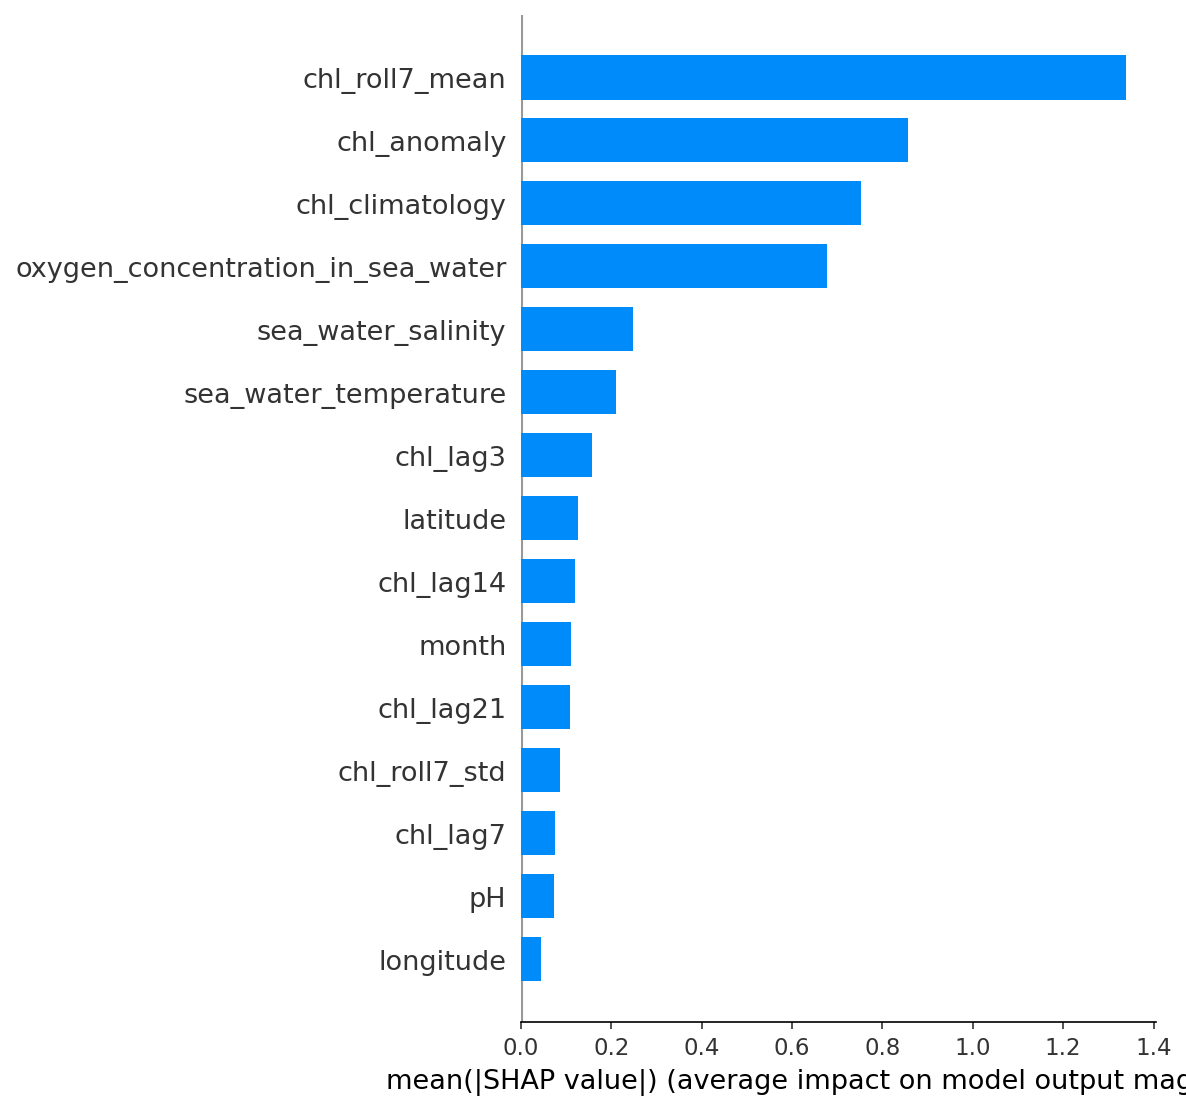
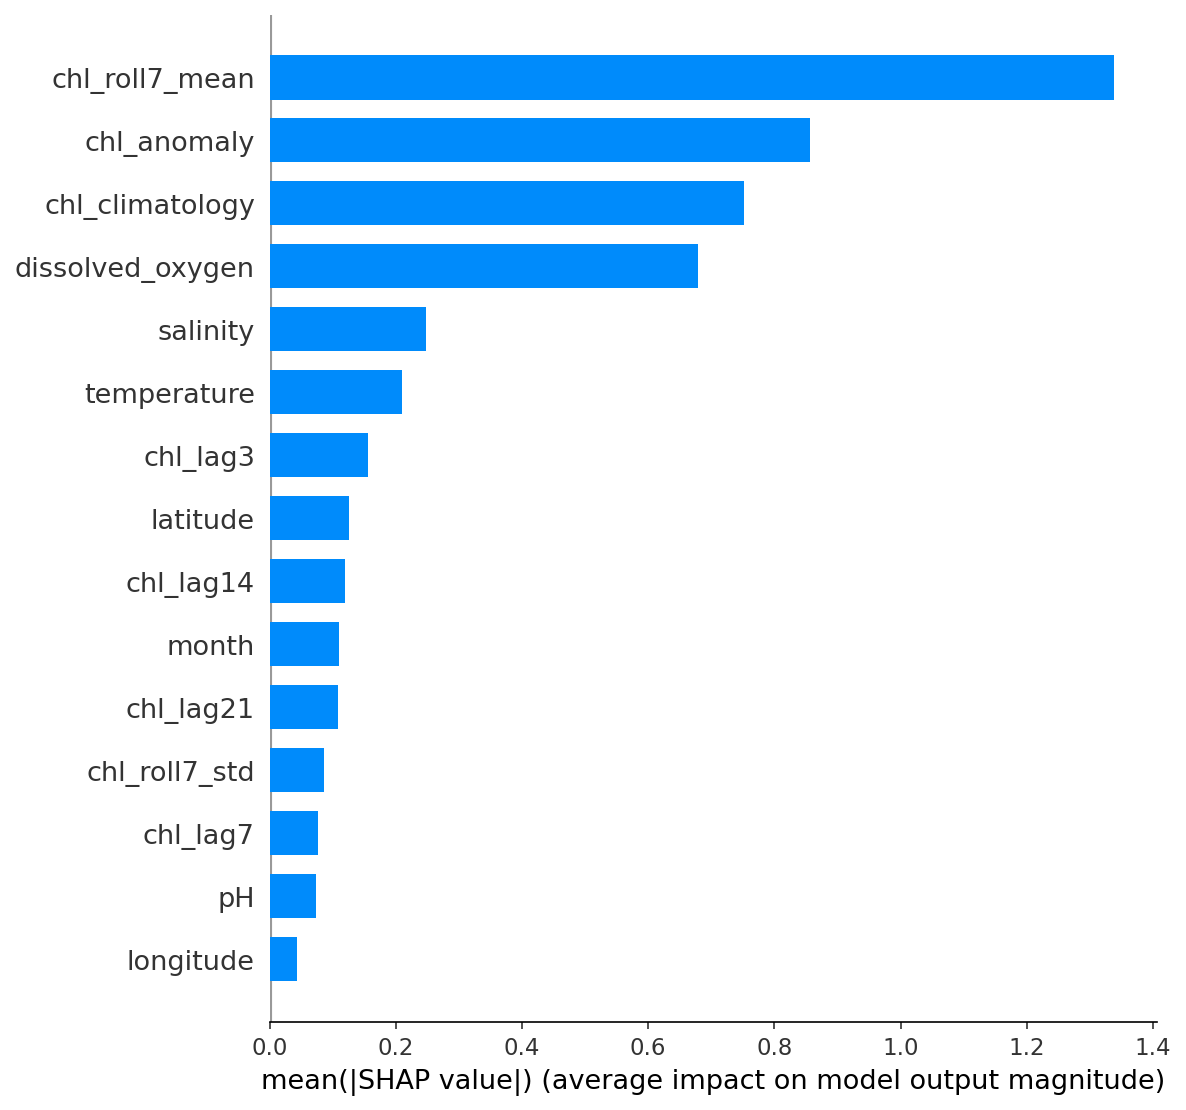
Refactor SHAP analysis plots to use renamed feature display names and adjust figure sizes

diff --git a/src/models/shap_analysis.py b/src/models/shap_analysis.py
@@ -49,17 +49,24 @@ sample = X_val.sample(5000, random_state=42)
 explainer = shap.TreeExplainer(xgb)
 shap_values = explainer.shap_values(sample)
 
+display_names = {
+    'oxygen_concentration_in_sea_water': 'dissolved_oxygen',
+    'sea_water_temperature': 'temperature',
+    'sea_water_salinity': 'salinity',
+}
+sample_display = sample.rename(columns=display_names)
+
 # Summary plot
-plt.figure()
-shap.summary_plot(shap_values, sample, show=False)
+plt.figure(figsize=(10, 6))
+shap.summary_plot(shap_values, sample_display, show=False)
 plt.tight_layout()
 plt.savefig('figures/shap_summary.png', dpi=150, bbox_inches='tight')
 plt.close()
 print("Saved shap_summary.png")
 
 # Bar plot
-plt.figure()
-shap.summary_plot(shap_values, sample, plot_type='bar', show=False)
+plt.figure(figsize=(10, 6))
+shap.summary_plot(shap_values, sample_display, plot_type='bar', show=False)
 plt.tight_layout()
 plt.savefig('figures/shap_importance.png', dpi=150, bbox_inches='tight')
 plt.close()